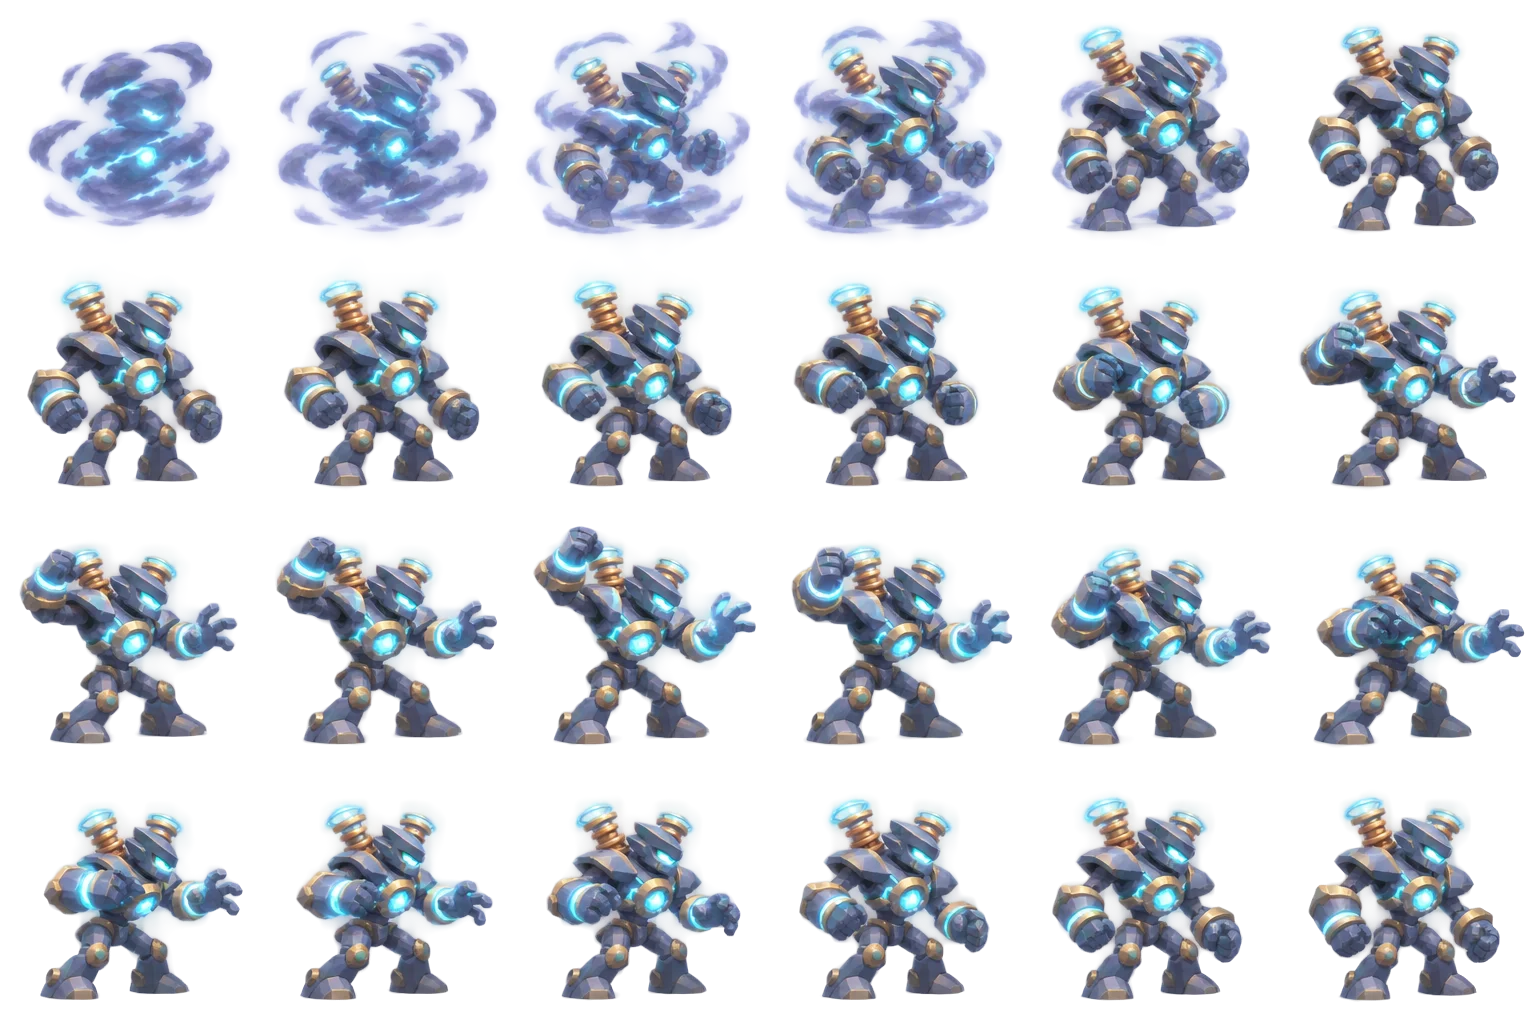
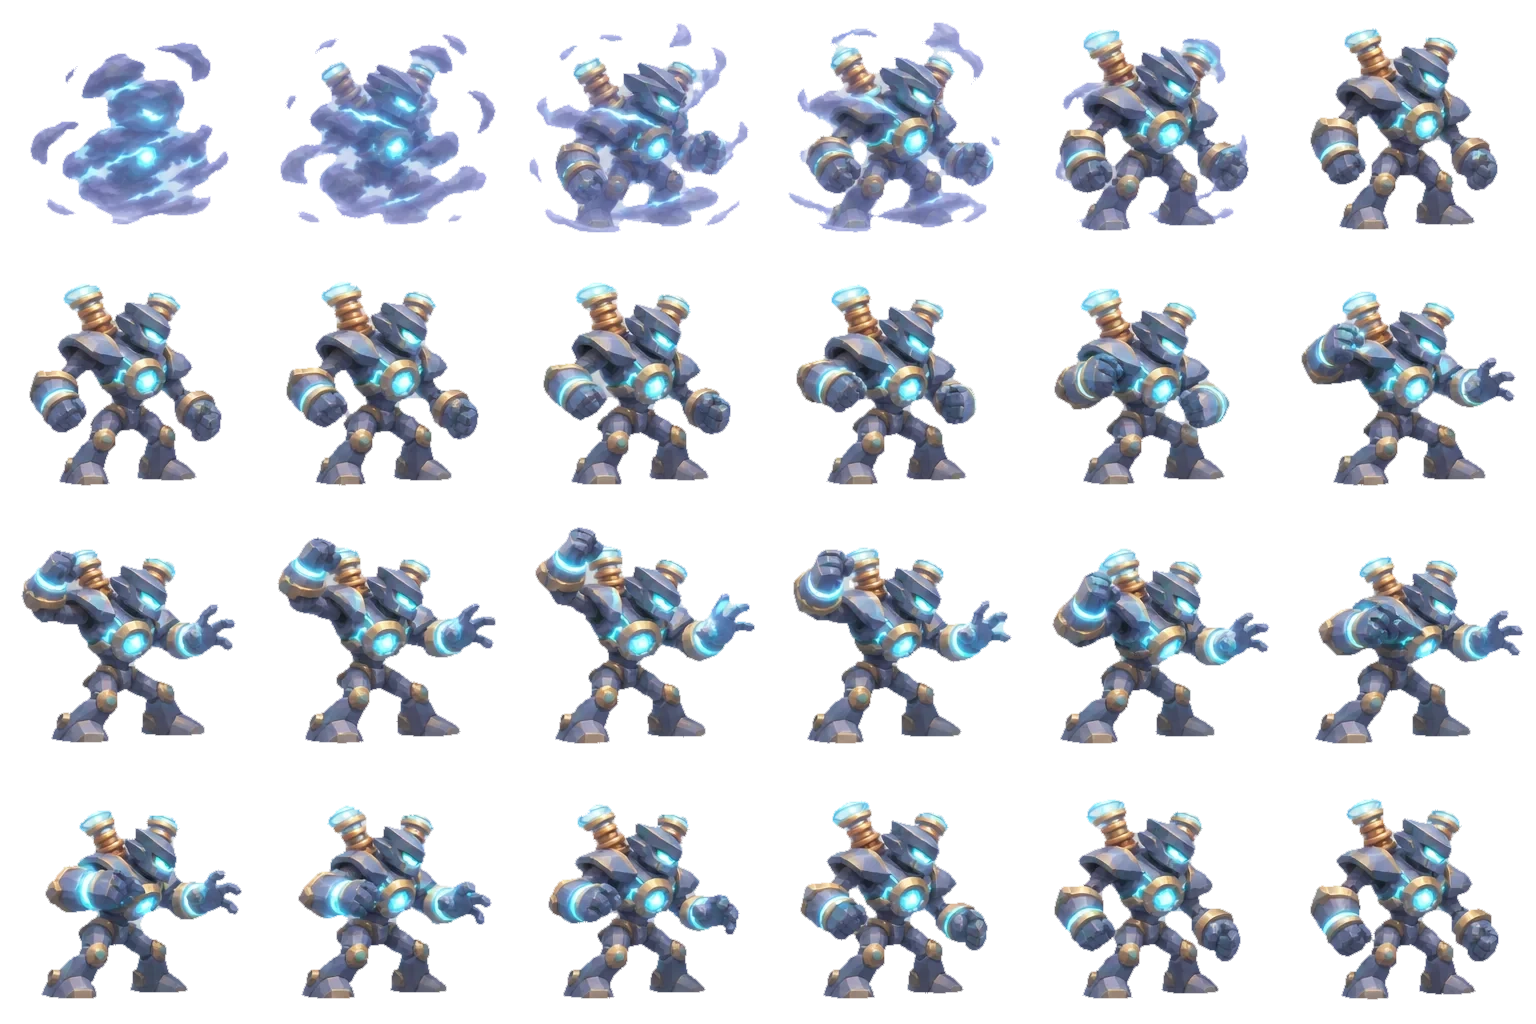
Ground Short Circuit at arena center, remove sprite fringe and improve branching discharge v0.354.21

diff --git a/assets/short-circuit.js b/assets/short-circuit.js
@@ -9,7 +9,7 @@ const ready=()=>[body,effects].every(im=>im.complete&&im.naturalWidth===1536&&im
 function ensure(){
  if(ready())return Promise.resolve(true);
  if(pending)return pending;
- pending=Promise.all([[body,"./assets/short-circuit-body.webp?v=1"],[effects,"./assets/short-circuit-fx.webp?v=1"]].map(([im,url])=>new Promise(resolve=>{
+ pending=Promise.all([[body,"./assets/short-circuit-body.webp?v=2"],[effects,"./assets/short-circuit-fx.webp?v=1"]].map(([im,url])=>new Promise(resolve=>{
    if(im.complete&&im.naturalWidth===1536&&im.naturalHeight===1024){resolve(true);return;}
    const timer=setTimeout(()=>resolve(false),12000);
    im.onload=()=>{clearTimeout(timer);resolve(true);};
@@ -25,8 +25,9 @@ function tile(g,img,frame,x,y,w,h){
 function scene(source,target,p,mana,factor=1,blocked=false){
  p=clamp(p);
  const dir=target.x>=source.x?1:-1,w=235;
- const x=Math.max(190,Math.min(810,target.x-dir*270));
- const y=Math.max(350,Math.min(490,target.y+5)),top=y-w;
+ // The arena background is registered to the world diamond at (500,510).
+ // Anchor the actual soles at atlas row 231, not the transparent cell bottom.
+ const x=500,y=510,top=y-w*231/256;
  // Reuse the clean authored poses, not the smoke-baked summon poses.
  let frame=5;
  if(p>=.18&&p<.43)frame=6+Math.min(8,Math.floor((p-.18)/.25*9));
@@ -36,7 +37,7 @@ function scene(source,target,p,mana,factor=1,blocked=false){
  const strength=clamp((Number(mana)||0)/30);
  const targetScale=Math.max(.8,Math.min(1.7,factor||1));
  return {x,y,top,w,dir,p,frame,alpha,strength,blocked,
-   hand:{x:x+dir*w*.37,y:top+w*.49},
+   hand:{x:x+dir*w*.39,y:top+w*.475},
    core:{x:x+dir*w*.045,y:top+w*.52},
    hit:{x:target.x,y:target.y-95*targetScale},targetScale};
 }
@@ -50,60 +51,95 @@ function fx(g,n,x,y,size,alpha=1,dir=1){
  g.save();g.globalAlpha*=clamp(alpha);g.translate(x,y);g.scale(dir,1);
  tile(g,effects,n,-size/2,-size/2,size,size);g.restore();
 }
-// Angular live electrical connectors link the authored discharge frames
-// to the exact target position in every formation and casting direction.
-function bolt(g,from,to,phase,width,alpha,spread){
+// Separate electrical frames remain the charge/impact accents. A continuous
+// branched channel replaces the old repeated zigzag and traveling orbs.
+function hash(n){const v=Math.sin(n*127.1+311.7)*43758.5453;return v-Math.floor(v);}
+function lightning(g,from,to,frame,width,alpha,spread,branches=true){
  const dx=to.x-from.x,dy=to.y-from.y,len=Math.hypot(dx,dy);
- if(alpha<=0||len<1)return;
- const count=Math.max(5,Math.ceil(len/17)),nx=-dy/len,ny=dx/len;
- g.save();g.globalAlpha*=alpha;g.lineJoin="round";g.lineCap="round";g.beginPath();
- for(let i=0;i<=count;i++){
-   const t=i/count,j=i===0||i===count?0:Math.sin(i*3.79+phase*2.4)*spread;
-   const x=from.x+dx*t+nx*j,y=from.y+dy*t+ny*j;
-   if(i===0)g.moveTo(x,y);else g.lineTo(x,y);
+ if(alpha<=0||len<2)return;
+ const nx=-dy/len,ny=dx/len,steps=Math.max(5,Math.ceil(len/19)),pts=[];
+ for(let i=0;i<=steps;i++){
+   const t=i/steps,j=(i===0||i===steps)?0:(hash(frame*31+i*7)-.5)*2*spread*Math.sin(Math.PI*t)**.55;
+   const along=(i===0||i===steps)?0:(hash(frame*23+i*13)-.5)*9;
+   pts.push({x:from.x+dx*t+nx*j+dx/len*along,y:from.y+dy*t+ny*j+dy/len*along});
  }
- g.strokeStyle="rgba(30,100,255,.26)";g.lineWidth=width*4;g.stroke();
- g.strokeStyle="#3dc7ff";g.lineWidth=width*2.2;g.stroke();
- g.strokeStyle="#e1ffff";g.lineWidth=width*.8;g.stroke();g.restore();
+ function stroke(points,w,a){
+   g.save();g.globalAlpha*=a;g.lineJoin="round";g.lineCap="round";
+   g.beginPath();points.forEach((q,i)=>i?g.lineTo(q.x,q.y):g.moveTo(q.x,q.y));
+   g.strokeStyle="rgba(20,100,255,.26)";g.lineWidth=w*5;g.stroke();
+   g.strokeStyle="rgba(39,170,255,.75)";g.lineWidth=w*2.8;g.stroke();
+   g.strokeStyle="#87eaff";g.lineWidth=w*1.35;g.stroke();
+   g.strokeStyle="#efffff";g.lineWidth=w*.58;g.stroke();g.restore();
+ }
+ if(branches)for(let i=1;i<steps-1;i++){
+   if(hash(frame*11+i*3)<.36)continue;
+   const q=pts[i],sign=hash(frame*17+i*5)>.5?1:-1,reach=13+hash(frame*9+i*31)*34;
+   const bend={x:q.x+dx/len*reach*.35+nx*sign*reach*.52,y:q.y+dy/len*reach*.35+ny*sign*reach*.52};
+   const tip={x:q.x+dx/len*reach*.9+nx*sign*reach,y:q.y+dy/len*reach*.9+ny*sign*reach};
+   stroke([q,bend,tip],width*(.27+hash(i+frame)*.15),alpha*.67);
+   if(i%2===0)stroke([bend,{x:bend.x+nx*sign*10-dx/len*8,y:bend.y+ny*sign*10-dy/len*8}],width*.2,alpha*.45);
+ }
+ stroke(pts,width,alpha);
+}
+function glow(g,x,y,r,a){
+ if(a<=0)return;
+ g.save();g.globalAlpha*=a;
+ const gr=g.createRadialGradient(x,y,0,x,y,r);
+ gr.addColorStop(0,"rgba(237,255,255,.95)");gr.addColorStop(.22,"rgba(94,220,255,.72)");
+ gr.addColorStop(.58,"rgba(30,140,255,.23)");gr.addColorStop(1,"rgba(30,140,255,0)");
+ g.fillStyle=gr;g.fillRect(x-r,y-r,r*2,r*2);g.restore();
 }
 function charge(g,s){
- if(s.p<.04||s.p>=.57)return;
- const u=clamp((s.p-.04)/.40),fade=1-ease((s.p-.47)/.10);
- const n=Math.min(8,Math.floor(u*9));
- fx(g,n,s.core.x,s.core.y,66+u*32,fade*.85);
- if(s.p>.22){
-   const f=ease((s.p-.22)/.19);
-   fx(g,n,s.hand.x,s.hand.y,74+f*36,fade*f);
-   const phase=Math.floor(s.p*90);
-   bolt(g,s.core,s.hand,phase,2.5,fade*f*.8,7);
+ if(s.p<.06||s.p>=.70)return;
+ const u=ease((s.p-.06)/.38),fade=1-ease((s.p-.58)/.12),a=u*fade,f=Math.floor(s.p*100);
+ // Small sparks at the two shoulder coils and through the forearm.
+ const coils=[{x:s.x-s.dir*s.w*.19,y:s.top+s.w*.17},{x:s.x+s.dir*s.w*.13,y:s.top+s.w*.21}];
+ for(let k=0;k<coils.length;k++){
+   const q=coils[k];
+   fx(g,Math.floor(u*8),q.x,q.y,40+u*10,a*.65);
+   lightning(g,q,s.core,f+k*9,1.7,a*.8,7,true);
+ }
+ if(s.p>.25){
+   const h=ease((s.p-.25)/.22);
+   lightning(g,s.core,s.hand,f+11,2.2,a*h,10,true);
+   fx(g,Math.min(8,Math.floor(h*9)),s.hand.x,s.hand.y,40+h*16,a*h*.76);
+   glow(g,s.hand.x,s.hand.y,23+h*9,a*h*.65);
  }
 }
 function discharge(g,s){
- if(s.p<.45||s.p>.77)return;
- const u=clamp((s.p-.45)/(.68-.45)),fade=1-ease((s.p-.69)/.08);
+ if(s.p<.57||s.p>=.81)return;
+ // Short lead-in, then a sustained current until the overload. No
+ // independent floating orb or repeated sawtooth pattern in the gap.
+ const u=ease((s.p-.57)/.11),fade=1-ease((s.p-.72)/.09);
  const head={x:s.hand.x+(s.hit.x-s.hand.x)*u,y:s.hand.y+(s.hit.y-s.hand.y)*u};
- const n=9+Math.min(3,Math.floor(u*4)),phase=Math.floor(s.p*115);
- fx(g,n,s.hand.x+s.dir*20,s.hand.y,115,fade,s.dir);
- for(let k=0;k<3;k++){
-   const origin={x:s.hand.x,y:s.hand.y+(k-1)*8};
-   bolt(g,origin,head,phase+k*3,3.7+s.strength*2.5-k*.65,fade*(1-k*.19),12+k*7+s.strength*8);
- }
- fx(g,8,head.x,head.y,55+35*u,fade*.86);
+ const f=Math.floor(s.p*120),power=4.8+s.strength*2.4;
+ glow(g,s.hand.x,s.hand.y,26,fade*.9);
+ lightning(g,s.hand,head,f,power,fade,14+s.strength*9,true);
+ // A thinner irregular filament flickers along the main channel.
+ lightning(g,s.hand,head,f+47,power*.36,fade*.66,24+s.strength*8,false);
+ if(u>.1&&u<1)glow(g,head.x,head.y,13,fade*.56);
 }
 function impact(g,s){
  if(s.p<.68||s.p>=.98||s.blocked)return;
- const t=clamp((s.p-.68)/.30),n=13+Math.min(10,Math.floor(t*11));
- const size=(135+65*s.strength)*s.targetScale;
- // The target remains an independent world object; only the energy
- // wraps their body and erupts from the point of contact.
- fx(g,n,s.hit.x,s.hit.y,size,1-ease((t-.77)/.23));
- if(t<.68){
-   const a=1-ease(t/.68),phase=Math.floor(s.p*120);
-   for(let k=0;k<4;k++){
-     const ang=k*Math.PI/2+phase*.17;
-     const end={x:s.hit.x+Math.cos(ang)*size*.36,y:s.hit.y+Math.sin(ang)*size*.40};
-     bolt(g,s.hit,end,phase+k*5,2.5+s.strength*2,a,9+s.strength*5);
-   }
+ const t=clamp((s.p-.68)/.30),a=1-ease(t),f=Math.floor(s.p*130);
+ const scale=s.targetScale,energy=.82+s.strength*.42;
+ // Electrical overload crawls along the target, then bursts from the
+ // torso. The authored impact frames are a short accent, not a cover.
+ const n=13+Math.min(10,Math.floor(t*11));
+ fx(g,n,s.hit.x,s.hit.y,(100+42*s.strength)*scale,Math.max(0,1-ease((t-.42)/.58))*.8);
+ glow(g,s.hit.x,s.hit.y,65*scale*energy,1-ease(t/.22));
+ for(let k=0;k<7;k++){
+   const ang=k*2.39996+hash(f+k)*.45,rr=(24+44*ease(t/.45))*scale*energy;
+   const q={x:s.hit.x+Math.cos(ang)*rr*.72,y:s.hit.y+Math.sin(ang)*rr*1.33};
+   lightning(g,s.hit,q,f+k*7,2.5+s.strength*1.4,a,10*scale,true);
+ }
+ // Small faceted sparks shoot away from the overloaded body.
+ for(let k=0;k<15;k++){
+   const ang=k*2.39996,rr=(12+t*(55+hash(k)*50))*scale;
+   const x=s.hit.x+Math.cos(ang)*rr,y=s.hit.y+Math.sin(ang)*rr*1.15;
+   const l=(5+hash(k+19)*10)*a*scale;
+   g.save();g.translate(x,y);g.rotate(ang);g.globalAlpha*=a;
+   g.fillStyle=k%3?"#5fdcff":"#e9ffff";g.beginPath();g.moveTo(l,0);g.lineTo(-l*.4,-l*.17);g.lineTo(-l*.72,0);g.lineTo(-l*.4,l*.17);g.closePath();g.fill();g.restore();
  }
 }
 function portrait(g,w,h){

diff --git a/arena.html b/arena.html
@@ -98,7 +98,7 @@ body[data-screen="home"][data-portal-view="home"] #portal{padding-bottom:calc(42
 </head>
 <body data-screen="home">
 <section id="portal" aria-label="Wizardry home"></section>
-<div id="mainMenuVersion" aria-label="Game version 0.354.20">v0.354.20</div>
+<div id="mainMenuVersion" aria-label="Game version 0.354.21">v0.354.21</div>
 <main class="game" id="game">
   <header class="mast">
     <div class="brand">
@@ -418,8 +418,8 @@ body[data-screen="home"][data-portal-view="home"] #portal{padding-bottom:calc(42
 <script src="./assets/thunderbirds.js?v=5" defer></script>
 <script src="./assets/thunder-god-drums.js?v=1" defer></script>
 <script src="./assets/magnetic-pulse.js?v=3" defer></script>
-<script src="./assets/short-circuit.js?v=1" defer></script>
-<script src="./arena.js?v=0.354.20" defer></script>
+<script src="./assets/short-circuit.js?v=2" defer></script>
+<script src="./arena.js?v=0.354.21" defer></script>
 <script src="./assets/menu-music.js?v=0.341.0" defer></script>
 <script src="./assets/wizard-home-v135.js?v=0.346.0" defer></script>
 <script src="./assets/audio-settings.js?v=0.341.0" defer></script>

diff --git a/index.html b/index.html
@@ -1,1 +1,1 @@
-<!doctype html><html lang="en"><head><meta charset="utf-8"><meta name="viewport" content="width=device-width,initial-scale=1"><title>Wizardry : The Fall of Lupen’s Kingdom</title><meta http-equiv="refresh" content="0;url=./arena.html?v=0.354.20"><script>const query=new URLSearchParams(location.search);query.set('v','0.354.20');location.replace('./arena.html?'+query+location.hash);</script></head><body><a href="./arena.html?v=0.354.20">Enter Wizardry</a></body></html>
+<!doctype html><html lang="en"><head><meta charset="utf-8"><meta name="viewport" content="width=device-width,initial-scale=1"><title>Wizardry : The Fall of Lupen’s Kingdom</title><meta http-equiv="refresh" content="0;url=./arena.html?v=0.354.21"><script>const query=new URLSearchParams(location.search);query.set('v','0.354.21');location.replace('./arena.html?'+query+location.hash);</script></head><body><a href="./arena.html?v=0.354.21">Enter Wizardry</a></body></html>
